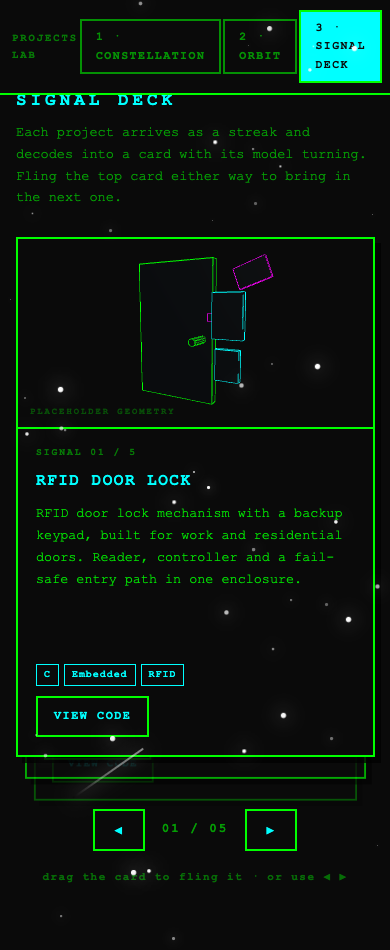
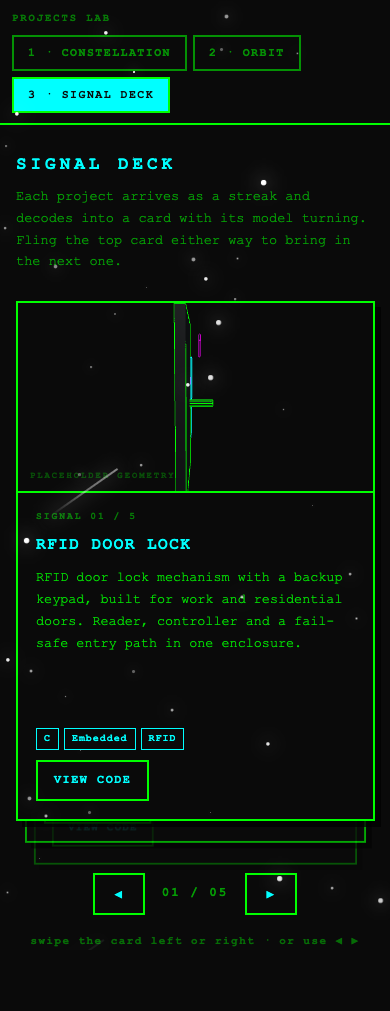
lab: horizontal-only swipe, no typewriter
- the drag commits to an axis after 8px: horizontal grabs the card,
  vertical releases it so the page scrolls as normal, and the card's Y
  is pinned to 0 either way
- touch-action goes from none to pan-y, so vertical scrolling stays
  native on a phone instead of being swallowed by the deck
- the fling exit travels straight sideways rather than dipping
- names and blurbs are set directly; the card body fades in behind the
  streak and the model booting instead of being typed out every swipe
- dropped the now-unused cursor style and stale hint copy

Verified with synthetic drags: vertical leaves the counter and the card
transform untouched, horizontal advances 01 -> 02 with Y at 0.

diff --git a/lab/signal.js b/lab/signal.js
@@ -13,7 +13,6 @@ let order = PROJECTS.map((_, i) => i);   // order[0] is the top card
 let cards = [];
 let viewers = [];
 let busy = false;
-let typeToken = 0;
 
 /* ---------- build the deck once ---------- */
 PROJECTS.forEach((p, i) => {
@@ -56,12 +55,11 @@ function restack() {
     count.textContent = `${String(order[0] + 1).padStart(2, '0')} / ${String(N).padStart(2, '0')}`;
 }
 
-/* ---------- the decode sequence for whatever is on top ---------- */
-async function decodeTop() {
+/* ---------- bring whatever is on top to life ---------- */
+function decodeTop() {
     const i = order[0];
     const el = cards[i];
     const p = PROJECTS[i];
-    const token = ++typeToken;
 
     el.classList.remove('arriving');
     void el.offsetWidth;
@@ -71,26 +69,15 @@ async function decodeTop() {
 
     const name = el.querySelector('.card-name');
     const text = el.querySelector('.card-text');
-    name.textContent = '';
-    text.textContent = '';
-
-    await sleep(180);
-    if (token !== typeToken) return;
-
-    const cursor = document.createElement('span');
-    cursor.className = 'cursor';
-    cursor.textContent = '_';
-    name.appendChild(cursor);
-    for (const ch of p.name) {
-        if (token !== typeToken) return;
-        cursor.before(ch);
-        await sleep(20);
-    }
-    cursor.remove();
-
-    // Typing the body too would make every swipe a waiting game.
+    name.textContent = p.name;
     text.textContent = p.blurb;
-    text.animate([{ opacity: 0 }, { opacity: 0.85 }], { duration: 280, fill: 'forwards' });
+
+    // The streak and the model booting carry the arrival; the text just fades
+    // in behind them rather than being typed out on every swipe.
+    el.querySelector('.card-body').animate(
+        [{ opacity: 0 }, { opacity: 1 }],
+        { duration: 260, easing: 'ease-out', fill: 'backwards' }
+    );
 }
 
 /* ---------- advancing ---------- */
@@ -102,7 +89,7 @@ async function advance(dir) {
     el.classList.remove('settling');
     el.classList.add('flung');
     el.style.transform =
-        `translate3d(${dir * (innerWidth * 0.9)}px, 40px, 0) rotate(${dir * 28}deg)`;
+        `translate3d(${dir * (innerWidth * 0.9)}px, 0, 0) rotate(${dir * 28}deg)`;
 
     await sleep(430);
 
@@ -124,7 +111,9 @@ function rewind() {
 }
 
 /* ---------- drag ---------- */
-let dragging = false, startX = 0, startY = 0, dx = 0, dy = 0, dragEl = null;
+let dragging = false, startX = 0, startY = 0, dx = 0, dragEl = null;
+let axis = null;          // null until the gesture commits to 'x' or 'y'
+const AXIS_SLOP = 8;      // px of travel before deciding which way it is going
 
 deck.addEventListener('pointerdown', e => {
     if (busy) return;
@@ -134,17 +123,29 @@ deck.addEventListener('pointerdown', e => {
     if (!dragEl.contains(e.target)) return;
 
     dragging = true;
-    startX = e.clientX; startY = e.clientY; dx = dy = 0;
+    axis = null;
+    startX = e.clientX; startY = e.clientY; dx = 0;
     dragEl.classList.remove('settling');
-    dragEl.setPointerCapture(e.pointerId);
 });
 
 deck.addEventListener('pointermove', e => {
     if (!dragging || !dragEl) return;
-    dx = e.clientX - startX;
-    dy = e.clientY - startY;
-    dragEl.style.transform =
-        `translate3d(${dx}px, ${dy}px, 0) rotate(${dx * 0.055}deg)`;
+    const mx = e.clientX - startX;
+    const my = e.clientY - startY;
+
+    // Decide the gesture's axis once, then stick to it. A mostly-vertical
+    // drag is someone scrolling the page, so hand it back rather than
+    // dragging the card around under their finger.
+    if (!axis) {
+        if (Math.abs(mx) < AXIS_SLOP && Math.abs(my) < AXIS_SLOP) return;
+        axis = Math.abs(mx) > Math.abs(my) ? 'x' : 'y';
+        if (axis === 'y') { dragging = false; dragEl = null; return; }
+        dragEl.setPointerCapture(e.pointerId);
+    }
+
+    dx = mx;
+    // Y is pinned: the card only travels sideways.
+    dragEl.style.transform = `translate3d(${dx}px, 0, 0) rotate(${dx * 0.055}deg)`;
 
     const t = Math.min(1, Math.abs(dx) / FLING);
     dragEl.querySelector('.card-cue.left').style.opacity  = dx < 0 ? t : 0;

diff --git a/lab/signal.html b/lab/signal.html
@@ -26,7 +26,7 @@
     width: min(420px, 92vw);
     height: 560px;
     margin-bottom: 34px;   /* room for the cards peeking out behind */
-    touch-action: none;          /* the drag is handled here, not by the browser */
+    touch-action: pan-y;         /* we own horizontal; the page keeps vertical */
     user-select: none;
 }
 
@@ -105,11 +105,6 @@
     color: var(--accent);
     line-height: 1.4;
     min-height: 1.4em;
-}
-.card-name .cursor {
-    background: var(--accent);
-    color: var(--bg);
-    animation: blink 1s step-end infinite;
 }
 .card-text { font-size: 0.84rem; line-height: 1.65; font-weight: 400; opacity: 0.85; flex: 1; }
 .card-tags { list-style: none; display: flex; flex-wrap: wrap; gap: 5px; padding: 0; }
@@ -190,7 +185,7 @@
 <div class="lab-wrap">
     <header class="lab-head">
         <h1>Signal Deck</h1>
-        <p>Each project arrives as a streak and decodes into a card with its model turning. Fling the top card either way to bring in the next one.</p>
+        <p>Each project arrives as a streak with its model turning. Swipe the top card left or right to bring in the next one; vertical drags are left to the page.</p>
     </header>
 
     <div class="deck-stage">
@@ -201,7 +196,7 @@
             <span class="deck-count" id="count">01 / 05</span>
             <button id="next" type="button" aria-label="Next project">&#9654;</button>
         </div>
-        <p class="deck-hint">drag the card to fling it &middot; or use &#9664; &#9654;</p>
+        <p class="deck-hint">swipe the card left or right &middot; or use &#9664; &#9654;</p>
     </div>
 </div>
 
